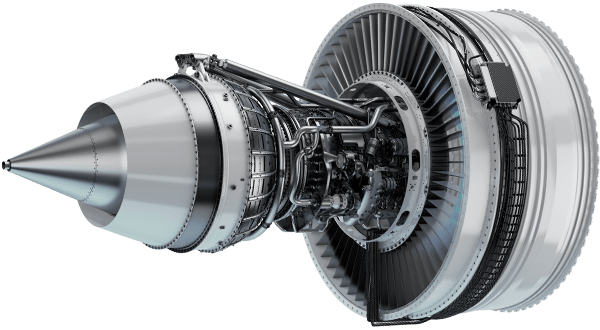
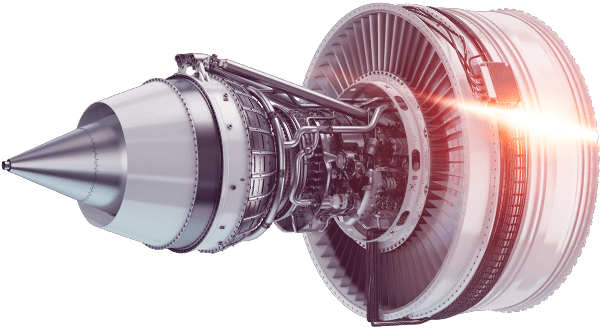
feat(front): #3456.1 animate turbine
- Addd gsap to create animations
- Create animation for the main turbine in the home page

Former-commit-id: 56cd73a9c23e35f9240a46675e680a8298600737

diff --git a/theme/2020/templates/landing.html b/theme/2020/templates/landing.html
@@ -17,18 +17,18 @@
   <div class="ba1 mb3 relative dt-ns mt0-ns pr3-ns pl3-ns pt3 ma-auto pt6-l pt4 mw9 ml-auto mr-auto">
     <!-- Banner Image-->
     <div class="fr-l w-45-l w100-m w90-s tc ml-auto mr-auto">
-      <img loading="lazy" class="new-banner"
+      <img loading="lazy" class="new-banner" id="turbine"
       src="{{ SITEURL }}/{{ THEME_STATIC_DIR }}/images/turbine-main.png"
       alt="Young hacker smiling">
     </div>
     <!-- Banner title and text -->
     <div class="fl-l w-50-l w100-m w90-s mt3-l center pt0-ns pt4">
-      <h1 class="c-fluid-bk fheader-l f-6-m fheader-s fheader-vl fw9 tl tc-m neue ma0">PENTEST</h1>
-      <p class="c-fluid-bk roboto fw8 lh2 f-sub ma0 tl tc-m w-auto-ns nt4-ns">
+      <h1 class="turbine-text c-fluid-bk fheader-l f-6-m fheader-s fheader-vl fw9 tl tc-m neue ma0">PENTEST</h1>
+      <p class="turbine-text c-fluid-bk roboto fw8 lh2 f-sub ma0 tl tc-m w-auto-ns nt4-ns">
         FOR YOUR SOFTWARE DEVELOPMENT LIFE CYCLE
       </p>
       <!-- Get a Demo button -->
-      <div class="tl-l tc pt2-l pt5">
+      <div class="turbine-text tl-l tc pt2-l pt5">
         <a class="no-underline" href="{{ SITEURL }}/contact-us/">
           <span class="dib br2 bannerbt hv-bt-fluid-rd ph4-l ph5 pv2 bt-trans white b roboto pointer mt2">
               Get a Demo

diff --git a/theme/2020/templates/base.html b/theme/2020/templates/base.html
@@ -186,7 +186,7 @@
       <script type="text/javascript"
               src="{{ SITEURL }}/{{ ASSET_URL }}"></script>
     {% endassets %}
-    {% assets output="static/js/contentHome.min.js", "js/tmp/contentHome.min.js", "js/tmp/dynClasses.min.js", "js/tmp/anchor.min.js" %}
+    {% assets output="static/js/contentHome.min.js", "js/tmp/contentHome.min.js", "js/tmp/dynClasses.min.js", "js/tmp/anchor.min.js", "js/tmp/gsapAnimations.min.js" %}
     <script type="text/javascript"
               src="{{ SITEURL }}/{{ ASSET_URL }}"></script>
     {% endassets %}

diff --git a/theme/2020/static/js/gsapAnimations.ts b/theme/2020/static/js/gsapAnimations.ts
@@ -1,0 +1,29 @@
+import gsap from "gsap";
+
+const fadeIn: (() => void) = (): void => {
+  gsap.from(".turbine-text", {
+    duration: 3,
+    ease: "power4.in",
+    opacity: 0,
+  });
+};
+
+const transition: (() => void) = (): void => {
+  gsap.from("#turbine", {
+    duration: 2.5,
+    ease: "expo.out",
+    scale: 0.25,
+    x: -9999,
+  });
+};
+
+const animate: (() => void) = (): void => {
+  gsap.to("#turbine", {
+    onComplete: transition,
+  });
+  gsap.to(".turbine-text", {
+    onComplete: fadeIn,
+  });
+};
+
+animate();

diff --git a/theme/2020/webpack.common.config.ts b/theme/2020/webpack.common.config.ts
@@ -10,6 +10,7 @@ export const commonConfig: webpack.Configuration = {
     defends: "./static/js/defends.ts",
     dynClasses: "./static/js/dynClasses.ts",
     form: "./static/js/form.ts",
+    gsapAnimations: "./static/js/gsapAnimations.ts",
     progressBar: "./static/js/progressBar.ts",
     rules: "./static/js/rules.ts",
   },
